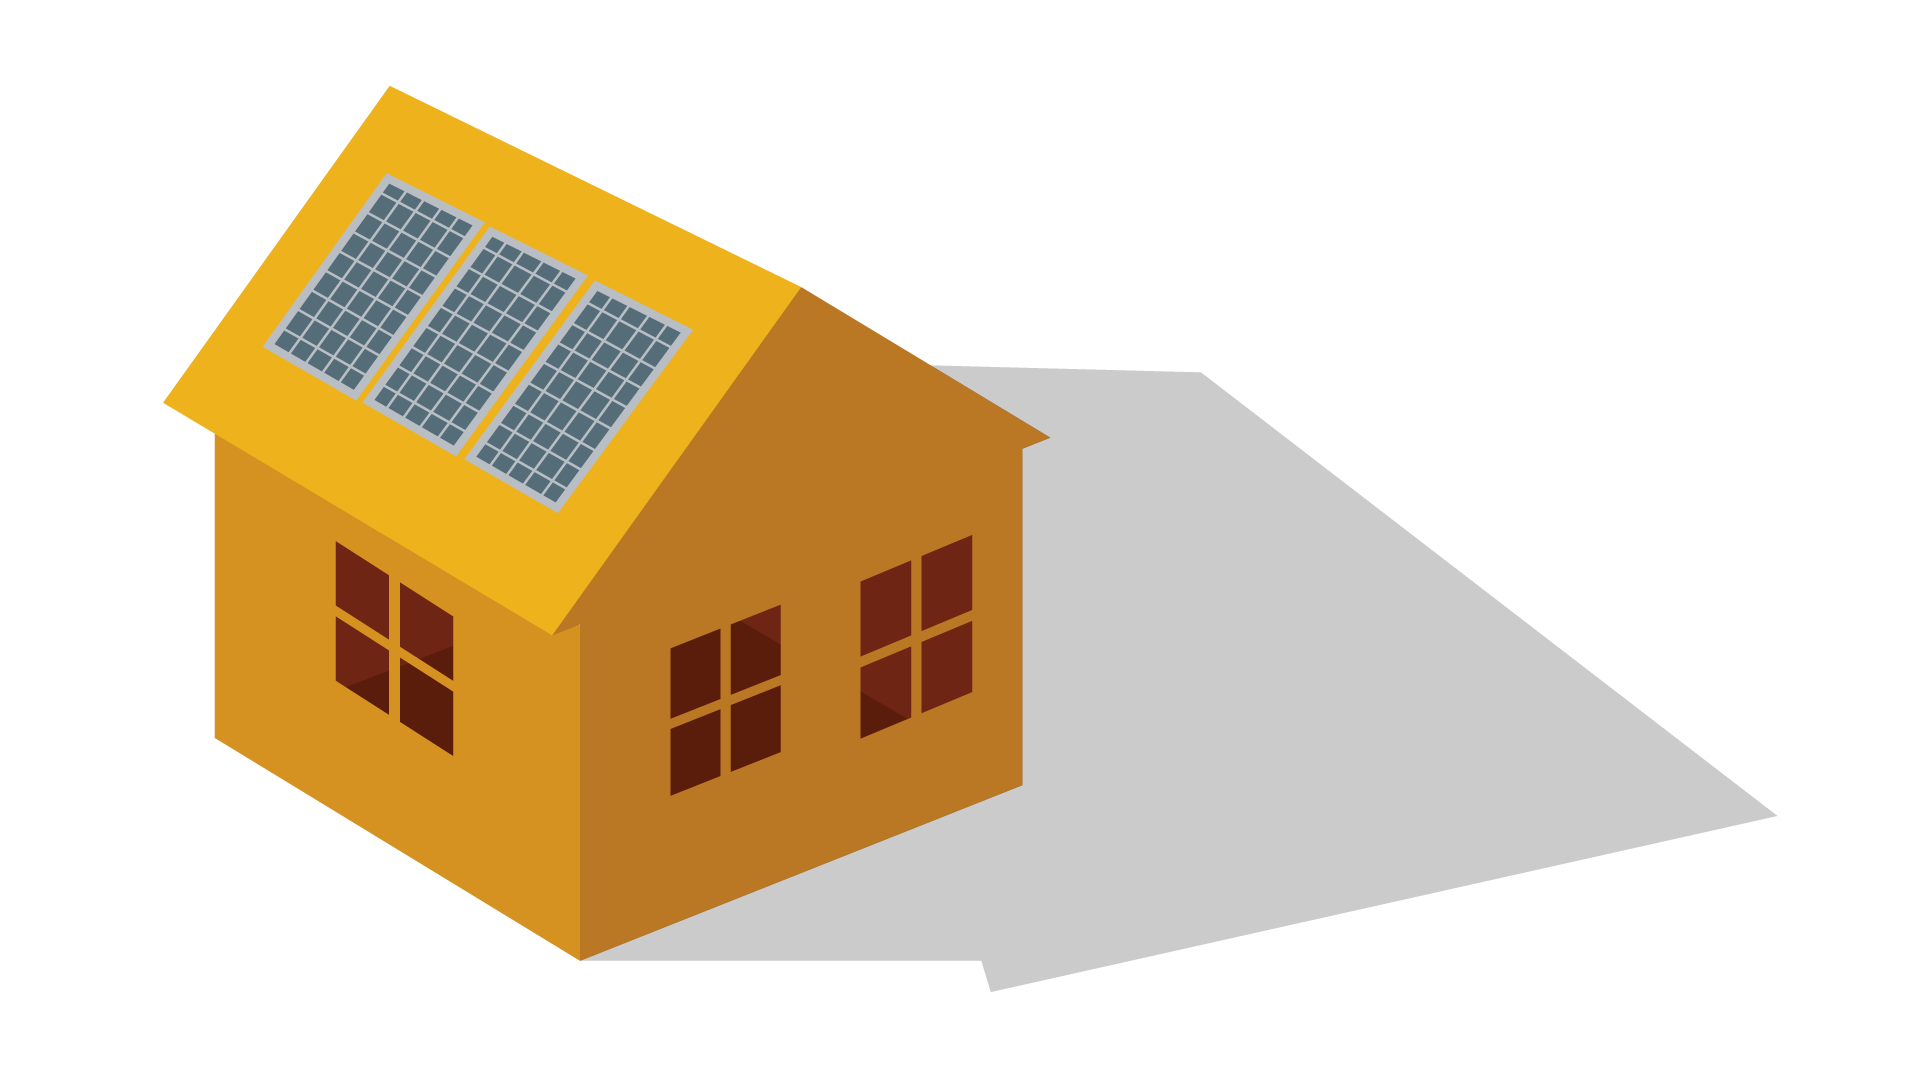
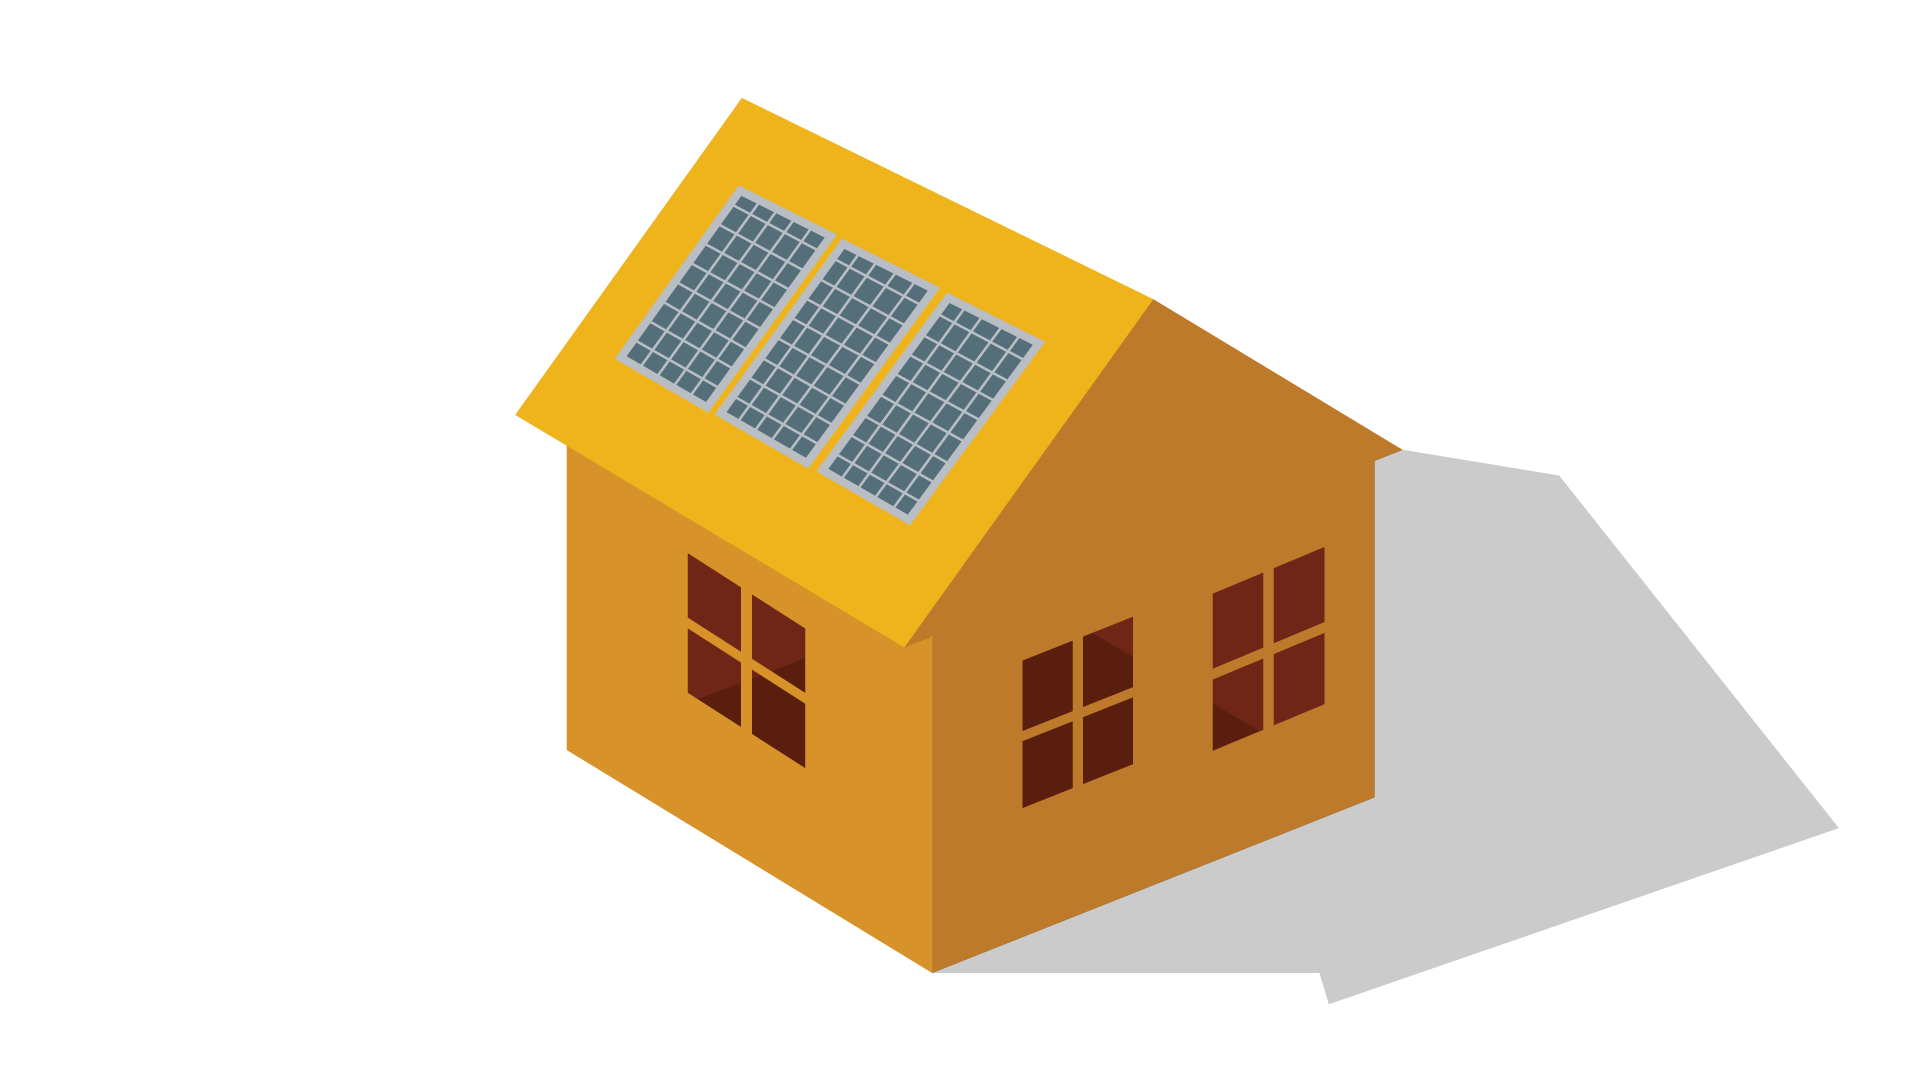
NEW rofftype buttons

diff --git a/src/Simulator/Location/DialogBaseSolar.jsx b/src/Simulator/Location/DialogBaseSolar.jsx
@@ -10,7 +10,7 @@ import { DialogActions, DialogContent, DialogTitle } from '@mui/material'
 
 //React global components
 import coplanarSvgFile from '../datos/coplanar.png'
-import horizontalSvgFile from '../datos/horizontal.svg'
+import horizontalSvgFile from '../datos/horizontal.png'
 import { SLDRInputField } from '../../components/SLDRComponents'
 
 // Solidar global modules
@@ -318,28 +318,50 @@ export default function DialogBaseSolar({ data, onClose }) {
                   flexDirection: 'row',
                   flexWrap: 'wrap',
                   mt: '1rem',
+                  mb: '1rem',
+                  justifyContent: 'space-between',
                 }}
               >
                 <Button
-                  variant={values.roofType === 'Inclinado' ? 'contained' : 'outlined'}
+                  style={{
+                    backgroundColor:
+                      values.roofType === 'Inclinado' ? 'green' : 'lightgray',
+                    color: values.roofType === 'Inclinado' ? 'white' : 'black',
+                    boxShadow:
+                      values.roofType !== 'Inclinado'
+                        ? '7px 7px 1px 2px rgba(0, 0, 0, 0.3)'
+                        : 'none',
+                  }}
                   name="roofType"
                   value="Inclinado"
-                  sx={{ flex: 1 }}
-                  className={'roofTypeButton'}
+                  sx={{ ml: '2rem', flex: 0.4 }}
                   onClick={(event) => changeRoofType(event, setValues, values)}
                 >
                   <img src={coplanarSvgFile} width="170" height="90" alt="SVG Image" />
                   {/* <HomeIcon /> */}
                 </Button>
                 <Button
-                  variant={values.roofType === 'Horizontal' ? 'contained' : 'outlined'}
+                  style={{
+                    backgroundColor:
+                      values.roofType === 'Horizontal' ? 'green' : 'lightgray',
+                    color: values.roofType === 'Horizontal' ? 'white' : 'black',
+                    boxShadow:
+                      values.roofType !== 'Horizontal'
+                        ? '7px 7px 1px 2px rgba(0, 0, 0, 0.3)'
+                        : 'none',
+                  }}
                   name="roofType"
                   value="Horizontal"
-                  sx={{ flex: 1 }}
-                  className={'roofTypeButton'}
+                  sx={{ mr: '2rem', flex: 0.4 }}
                   onClick={(event) => changeRoofType(event, setValues)}
                 >
-                  <img src={horizontalSvgFile} width="70" height="70" alt="SVG Image" />
+                  <img
+                    src={horizontalSvgFile}
+                    width="170"
+                    height="80"
+                    style={{ padding: 1 }}
+                    alt="SVG Image"
+                  />
                   {/* <ApartmentIcon /> */}
                 </Button>
                 {/* <Button

diff --git a/src/Simulator/Consumption/Consumption.jsx b/src/Simulator/Consumption/Consumption.jsx
@@ -35,7 +35,7 @@ const ConsumptionStep = () => {
           <Typography
             variant="body"
             dangerouslySetInnerHTML={{
-              __html: t('CONSUMPTION.TARIFA_DESCRIPTION_1', { icono: '<HelpIcon />' }),
+              __html: t('CONSUMPTION.TARIFA_DESCRIPTION_1'),
             }}
           />
           <IconButton